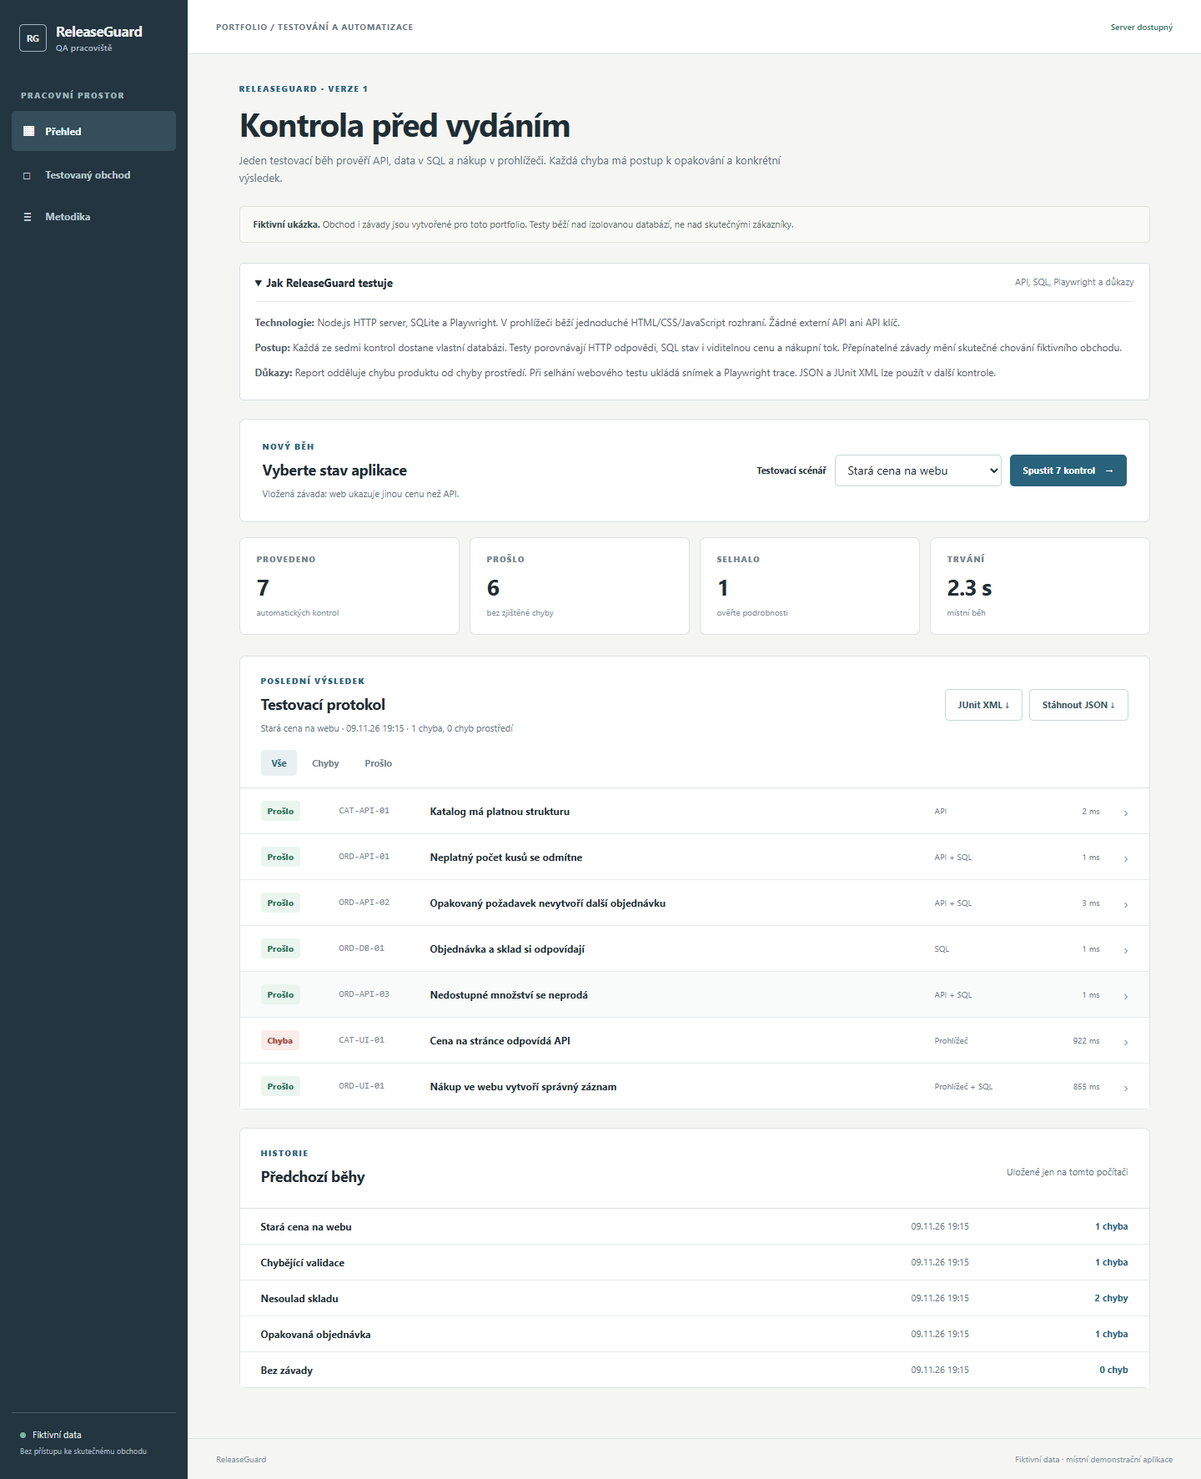
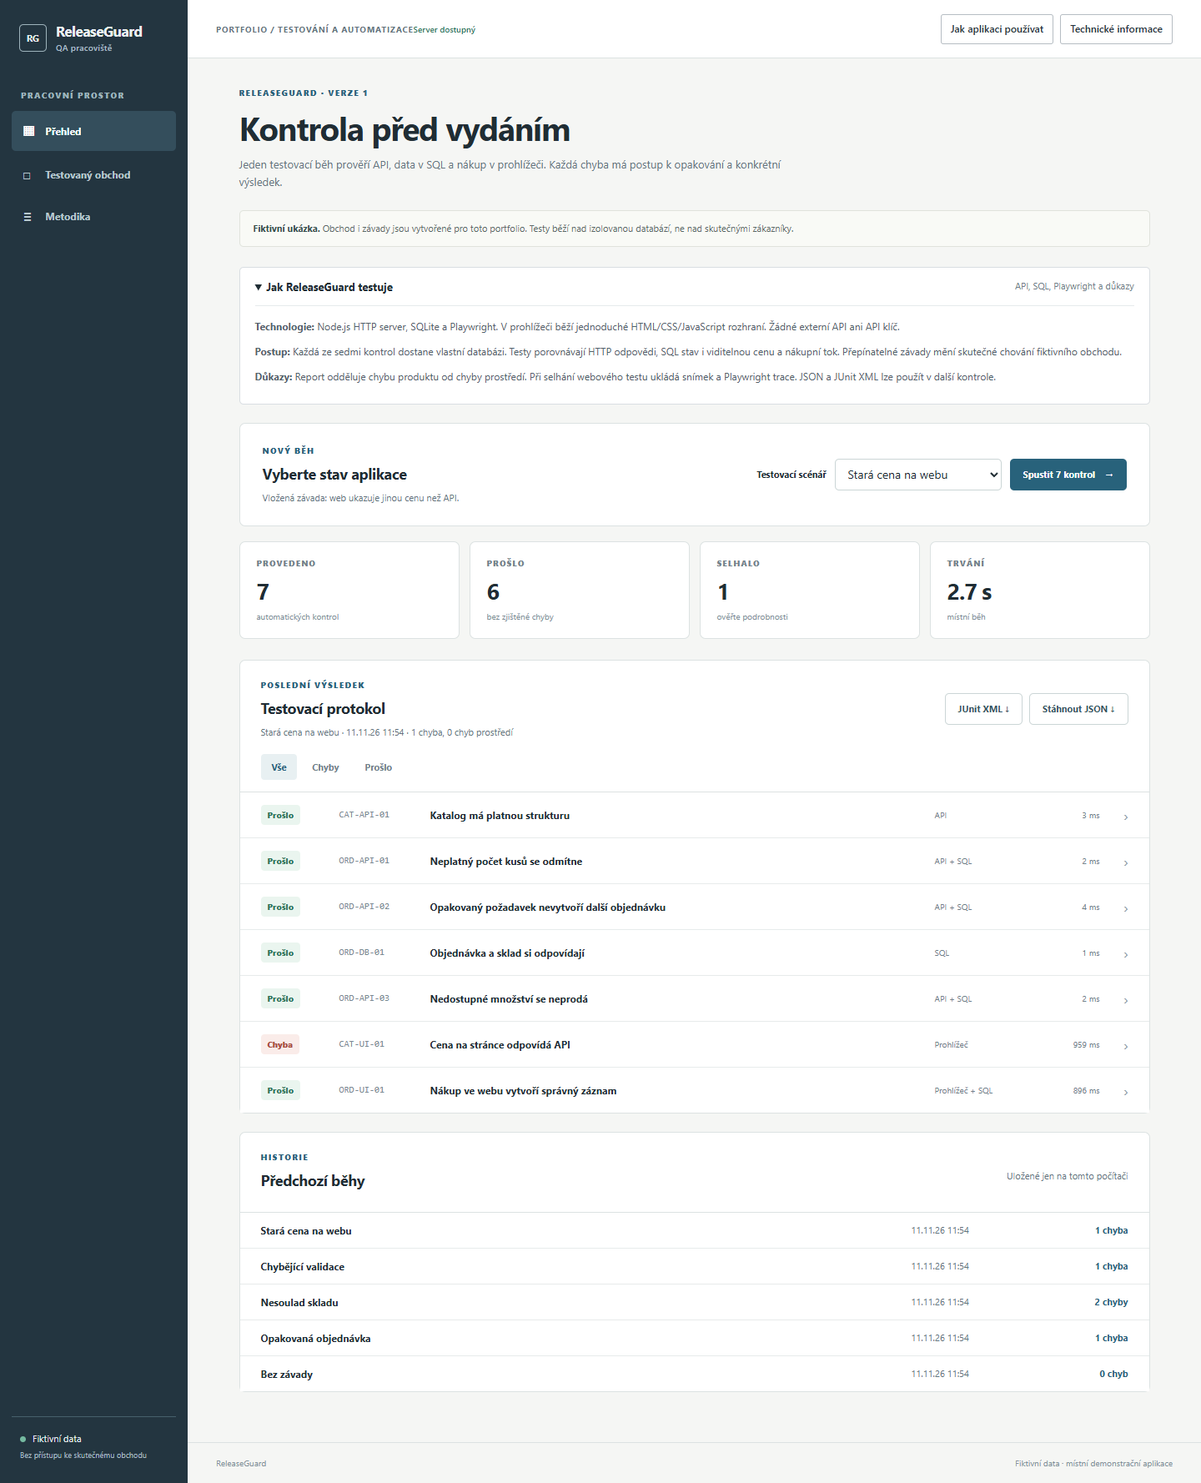
docs: explain order lifetime and guide the QA workflow

diff --git a/web/index.html b/web/index.html
@@ -6,8 +6,8 @@
   <meta name="description" content="ReleaseGuard: ukázková kontrola API, databáze a webu před vydáním aplikace.">
   <title>ReleaseGuard — kontrola před vydáním</title>
   <link rel="stylesheet" href="/style.css">
-  <script type="module" src="/app.js"></script>
-</head>
+  <script src="./guide.js" defer></script><script type="module" src="/app.js"></script>
+<link rel="stylesheet" href="./guide.css"></head>
 <body>
   <a class="skip-link" href="#main">Přeskočit na obsah</a>
   <div class="layout">
@@ -36,7 +36,7 @@
           <section class="panel" aria-labelledby="results-heading"><div class="panel-head"><div><p class="section-kicker">POSLEDNÍ VÝSLEDEK</p><h2 id="results-heading">Testovací protokol</h2><p id="report-subtitle" class="subtle">Zatím nebyl spuštěn žádný test.</p></div><div class="report-actions"><button id="download-junit" class="button secondary" type="button" disabled>JUnit XML ↓</button><button id="download-report" class="button secondary" type="button" disabled>Stáhnout JSON ↓</button></div></div><div id="result-filters" class="filters" role="group" aria-label="Filtrovat výsledky"><button type="button" data-filter="all" class="active">Vše</button><button type="button" data-filter="failed">Chyby</button><button type="button" data-filter="passed">Prošlo</button></div><div id="case-list" class="case-list"><p class="empty">Vyberte scénář a spusťte kontroly.</p></div></section>
           <section class="panel history-panel" aria-labelledby="history-heading"><div class="panel-head"><div><p class="section-kicker">HISTORIE</p><h2 id="history-heading">Předchozí běhy</h2></div><span class="subtle">Uložené jen na tomto počítači</span></div><div id="history-list" class="history-list"><p class="empty">Historie je zatím prázdná.</p></div></section>
         </section>
-        <section id="target-view" hidden><p class="eyebrow">TESTOVACÍ PROSTŘEDÍ</p><h1>Malý obchod. Skutečné kontroly.</h1><p class="lead">Tři fiktivní produkty, nákupní formulář a SQLite databáze. Závady mění konkrétní chování aplikace; testy je musí odhalit.</p><div class="info-grid"><article class="panel"><h2>Otevřít obchod</h2><p>Projděte stejný nákupní tok, který automaticky prověřuje prohlížečový test.</p><a class="button primary" href="/store" target="_blank" rel="noopener">Otevřít testovaný obchod ↗</a></article><article class="panel"><h2>Co testujeme</h2><ul><li>Schéma a stavové kódy API</li><li>Opakované požadavky a zásoby</li><li>Přesné SQL záznamy</li><li>Cenu a nákup na webu</li></ul></article></div><p class="small-note">Ruční obchod běží na vlastní fiktivní sadě. Každý automatický test má samostatnou izolovanou databázi.</p></section>
+        <section id="target-view" hidden><p class="eyebrow">TESTOVACÍ PROSTŘEDÍ</p><h1>Malý obchod. Skutečné kontroly.</h1><p class="lead">Tři fiktivní produkty, nákupní formulář a SQLite databáze. Závady mění konkrétní chování aplikace; testy je musí odhalit.</p><div class="info-grid"><article class="panel"><h2>Otevřít obchod</h2><p>Projděte stejný nákupní tok, který automaticky prověřuje prohlížečový test.</p><a class="button primary" href="/store" target="_blank" rel="noopener">Otevřít testovaný obchod ↗</a></article><article class="panel"><h2>Co testujeme</h2><ul><li>Schéma a stavové kódy API</li><li>Opakované požadavky a zásoby</li><li>Přesné SQL záznamy</li><li>Cenu a nákup na webu</li></ul></article></div><p class="small-note">Ruční obchod běží na vlastní fiktivní sadě v paměťové SQL databázi. Objednávky lze během běhu načíst podle ID přes API, ale po restartu serveru zmizí. Není zde seznam ani správa firemních objednávek. Každý automatický test má samostatnou izolovanou databázi; trvale se ukládá historie testovacích běhů.</p></section>
         <section id="method-view" hidden><p class="eyebrow">METODIKA</p><h1>Jak vzniká výsledek</h1><p class="lead">ReleaseGuard hlásí jen pozorovaný rozdíl mezi očekáváním a skutečností. Vnější závislosti, například chybějící prohlížeč, označuje samostatně jako chybu prostředí.</p><div class="method-list"><article><span>01</span><div><h2>Izolovaný vstup</h2><p>Každá kontrola dostane novou SQLite databázi se stejnými fiktivními produkty.</p></div></article><article><span>02</span><div><h2>API, SQL a prohlížeč</h2><p>Kontroly volají skutečné HTTP endpointy, čtou SQL stav a používají Playwright pro webový nákup.</p></div></article><article><span>03</span><div><h2>Reprodukovatelný nález</h2><p>Protokol ukládá očekávání, zjištěný stav a kroky. Selhání v prohlížeči přidá screenshot a trace.</p></div></article></div><div class="notice">Přepínatelné závady jsou výuková simulace. Úspěšný běh potvrzuje těchto sedm kontrol, nikoli bezchybnost libovolného e-shopu.</div></section>
       </main>
       <footer>ReleaseGuard <span>Fiktivní data · místní demonstrační aplikace</span></footer>

diff --git a/web/guide.js b/web/guide.js
@@ -1,0 +1,20 @@
+const config={"name":"ReleaseGuard","purpose":"Prověřte, zda změna aplikace neporušila API, stav databáze nebo nákupní tok.","steps":["Zvolte „Bez závady“ a spusťte sedm skutečných kontrol nad izolovanými databázemi.","Zkuste některou z připravených závad. V protokolu otevřete očekávání, skutečnost a postup k opakování; u webové chyby také screenshot a trace.","Stáhněte JSON/JUnit protokol. V Testovaném obchodu lze ručně objednat fiktivní produkt a sledovat změnu skladu."],"tech":["Node.js HTTP server, SQLite a Playwright. Skutečné HTTP požadavky, SQL ověření a práce v prohlížeči.","Každá automatická kontrola má vlastní paměťovou databázi. Ruční obchod má jinou samostatnou paměťovou databázi.","Historie testovacích běhů je uložená v místním SQLite souboru. Žádná AI ani externí API."],"limit":"Objednávka ručního obchodu skutečně vznikne v SQL, ale po restartu serveru zmizí. Je to QA pracoviště, nikoli hotová firemní evidence objednávek.","repo":"releaseguard"};
+
+(()=>{
+ const node=(tag,text,className)=>{const e=document.createElement(tag);if(text!==undefined)e.textContent=text;if(className)e.className=className;return e};
+ const key='portfolio-guide:'+config.repo+':v1';
+ const header=document.querySelector('header');if(!header)return;header.classList.add('has-guide');
+ const links=node('div',undefined,'guide-links');links.setAttribute('role','group');links.setAttribute('aria-label','Nápověda aplikace');
+ const usage=node('button','Jak aplikaci používat'),technical=node('button','Technické informace');usage.type=technical.type='button';usage.id='guide-use';technical.id='guide-tech';links.append(usage,technical);header.append(links);
+ const dialog=node('dialog',undefined,'guide-dialog');dialog.id='guide-dialog';dialog.setAttribute('aria-labelledby','guide-title');
+ const head=node('div',undefined,'guide-head'),title=node('h2');title.id='guide-title';const close=node('button','×','guide-close');close.type='button';close.setAttribute('aria-label','Zavřít nápovědu');close.id='guide-close';head.append(title,close);
+ const tabs=node('div',undefined,'guide-tabs'),useTab=node('button','Používání'),techTab=node('button','Technické řešení');useTab.type=techTab.type='button';tabs.append(useTab,techTab);
+ const body=node('div',undefined,'guide-content'),foot=node('div',undefined,'guide-foot'),github=node('a','Úplný popis na GitHubu ↗'),start=node('button','Začít používat','guide-start');github.href='https://github.com/OmegaCatt/'+config.repo+'#readme';github.target='_blank';github.rel='noopener noreferrer';start.id='guide-start';start.type='button';foot.append(github,start);dialog.append(head,tabs,body,foot);document.body.append(dialog);
+ let opener=null;
+ function render(kind){const isUse=kind==='use';title.textContent=(isUse?'Jak používat ':'Technické informace · ')+config.name;useTab.setAttribute('aria-pressed',String(isUse));techTab.setAttribute('aria-pressed',String(!isUse));body.replaceChildren();if(isUse){body.append(node('p',config.purpose,'guide-purpose'));const list=node('ol');for(const text of config.steps)list.append(node('li',text));body.append(list)}else{for(const text of config.tech)body.append(node('p',text))}body.append(node('p',config.limit,'guide-limit'));dialog.scrollTop=0;}
+ function open(kind,trigger){opener=trigger||document.activeElement;render(kind);if(!dialog.open)dialog.showModal();start.focus({preventScroll:true})}
+ usage.onclick=()=>open('use',usage);technical.onclick=()=>open('tech',technical);useTab.onclick=()=>render('use');techTab.onclick=()=>render('tech');close.onclick=start.onclick=()=>dialog.close();
+ dialog.addEventListener('close',()=>{try{localStorage.setItem(key,'seen')}catch{}if(opener?.isConnected&&!document.querySelector('dialog[open]'))opener.focus({preventScroll:true})});
+ dialog.addEventListener('keydown',event=>{if(event.key!=='Tab')return;const items=[...dialog.querySelectorAll('button:not(:disabled),a[href]')].filter(e=>e.getClientRects().length);const first=items[0],last=items.at(-1);if(event.shiftKey&&document.activeElement===first){event.preventDefault();last.focus()}else if(!event.shiftKey&&document.activeElement===last){event.preventDefault();first.focus()}});
+ let seen=false;try{seen=localStorage.getItem(key)==='seen'}catch{}if(!seen)open('use');
+})();

diff --git a/web/store.html b/web/store.html
@@ -1,5 +1,5 @@
 <!doctype html>
 <html lang="cs">
 <head><meta charset="utf-8"><meta name="viewport" content="width=device-width, initial-scale=1"><title>Ukázkový obchod — ReleaseGuard</title><link rel="stylesheet" href="/style.css"><script type="module" src="/store.js"></script></head>
-<body class="store-page"><header class="store-top"><a href="/">← ReleaseGuard</a><strong>Ukázkový obchod</strong><span>Fiktivní provoz</span></header><main class="store-shell"><p class="eyebrow">TESTOVANÁ APLIKACE</p><h1>Výbava pro pracovní stůl</h1><p class="lead">Malý demonstrační obchod pro ověřování API, cen a objednávek. Žádná skutečná platba ani odeslání.</p><section id="product-list" class="product-grid" aria-label="Produkty"></section><section class="checkout-panel" aria-labelledby="checkout-heading"><div><p class="section-kicker">POKUSNÁ OBJEDNÁVKA</p><h2 id="checkout-heading">Vyzkoušet nákup</h2><p>Objednávka se uloží jen do místní testovací databáze.</p></div><form id="order-form"><label for="product">Produkt</label><select id="product" required></select><label for="quantity">Počet kusů</label><input id="quantity" type="number" min="1" max="10" value="1" required><label for="email">Fiktivní e-mail</label><input id="email" type="email" placeholder="demo@example.test" required><p id="order-error" class="form-error" role="alert"></p><button id="order-button" class="button primary" type="submit">Vytvořit testovací objednávku</button></form></section><div id="confirmation" class="confirmation" role="status" hidden></div></main><footer>ReleaseGuard · testovaný fiktivní obchod</footer></body>
+<body class="store-page"><header class="store-top"><a href="/">← ReleaseGuard</a><strong>Ukázkový obchod</strong><span>Fiktivní provoz</span></header><main class="store-shell"><p class="eyebrow">TESTOVANÁ APLIKACE</p><h1>Výbava pro pracovní stůl</h1><p class="lead">Malý demonstrační obchod pro ověřování API, cen a objednávek. Žádná skutečná platba ani odeslání.</p><section id="product-list" class="product-grid" aria-label="Produkty"></section><section class="checkout-panel" aria-labelledby="checkout-heading"><div><p class="section-kicker">POKUSNÁ OBJEDNÁVKA</p><h2 id="checkout-heading">Vyzkoušet nákup</h2><p>Objednávka se skutečně uloží do paměťové SQL databáze. Po restartu serveru zmizí; tato ukázka není trvalou evidencí objednávek.</p></div><form id="order-form"><label for="product">Produkt</label><select id="product" required></select><label for="quantity">Počet kusů</label><input id="quantity" type="number" min="1" max="10" value="1" required><label for="email">Fiktivní e-mail</label><input id="email" type="email" placeholder="demo@example.test" required><p id="order-error" class="form-error" role="alert"></p><button id="order-button" class="button primary" type="submit">Vytvořit testovací objednávku</button></form></section><div id="confirmation" class="confirmation" role="status" hidden></div></main><footer>ReleaseGuard · testovaný fiktivní obchod</footer></body>
 </html>

diff --git a/web/guide.css b/web/guide.css
@@ -1,0 +1,24 @@
+
+.has-guide{height:auto!important;min-height:70px;flex-wrap:wrap;row-gap:12px;padding-top:14px!important;padding-bottom:14px!important}
+.guide-links{display:flex;flex-wrap:wrap;gap:8px;margin-left:auto;align-items:center;flex-shrink:0}
+.guide-links button{font:600 12px/1.35 system-ui,sans-serif!important;letter-spacing:0!important;display:inline-flex;align-items:center;justify-content:center;min-height:36px;width:auto;max-width:100%;padding:8px 11px!important;border:1px solid #b6bdc3!important;border-radius:3px!important;background:#fff!important;color:#283440!important;box-shadow:none!important;transform:none!important;transition:none!important;cursor:pointer}
+#guide-dialog{box-sizing:border-box;width:min(700px,calc(100vw - 28px));max-width:calc(100vw - 28px);max-height:calc(100dvh - 32px);margin:auto;padding:26px;border:1px solid #969fa7;border-radius:5px;background:#fff;color:#27323b;box-shadow:none;font:15px/1.6 system-ui,sans-serif;overflow:auto;letter-spacing:normal}
+#guide-dialog::backdrop{background:#18232c99;backdrop-filter:none}
+#guide-dialog *{box-sizing:border-box}
+#guide-dialog .guide-head{display:flex;justify-content:space-between;gap:16px;align-items:start}
+#guide-dialog h2{font:700 23px/1.25 system-ui,sans-serif;letter-spacing:-.3px;margin:0;color:#27323b}
+#guide-dialog button{font:600 13px/1.4 system-ui,sans-serif;letter-spacing:normal;transition:none;transform:none;box-shadow:none;cursor:pointer;min-height:38px;border:1px solid #a7b1b8;border-radius:3px;padding:8px 12px;background:#fff;color:#283440;width:auto;margin:0}
+#guide-dialog .guide-close{font-size:23px;padding:0 10px;flex:none}
+#guide-dialog .guide-tabs{display:flex;gap:8px;flex-wrap:wrap;border-bottom:1px solid #d8dde1;padding:18px 0 14px}
+#guide-dialog .guide-tabs [aria-pressed=true]{background:#eaf0f3;border-color:#647581}
+#guide-dialog .guide-content{padding-top:6px;overflow-wrap:anywhere}
+#guide-dialog p{font:inherit;margin:14px 0;color:inherit}
+#guide-dialog .guide-purpose{font-weight:550}
+#guide-dialog ol{padding-left:23px;margin:16px 0}
+#guide-dialog li{padding-left:5px;margin:12px 0}
+#guide-dialog .guide-limit{font-size:13px;border-left:3px solid #9ba9b2;padding:8px 12px;background:#f3f5f6;color:#46535e}
+#guide-dialog .guide-foot{display:flex;align-items:center;justify-content:space-between;gap:14px;border-top:1px solid #d8dde1;padding-top:18px;margin-top:20px;flex-wrap:wrap}
+#guide-dialog a{font-size:13px;color:#244a67;text-decoration:underline}
+#guide-dialog .guide-start{background:#2c414f;color:white;border-color:#2c414f}
+#guide-dialog :focus-visible,.guide-links button:focus-visible{outline:3px solid #bf810c!important;outline-offset:3px}
+@media(max-width:800px){.has-guide .guide-links{margin-left:0;width:100%}.guide-links button{flex:1 1 auto}#guide-dialog{padding:18px;font-size:14px}#guide-dialog h2{font-size:20px}#guide-dialog .guide-foot{align-items:stretch;flex-direction:column}#guide-dialog .guide-start{width:100%}}

diff --git a/README.md b/README.md
@@ -1,5 +1,12 @@
 # ReleaseGuard
 
+## Orientace v aplikaci (11. 11. 2026)
+
+Při první návštěvě se otevře stručný návod. Po zavření si aplikace v tomto prohlížeči zapamatuje potvrzení; změna nemá vliv na obchodní data. V hlavičce lze kdykoli otevřít **Jak aplikaci používat** a **Technické informace**. Oba obsahy odkazují na úplný README zde na GitHubu. Pokud úložiště prohlížeče není dostupné, návod lze zavřít a aplikace dál funguje.
+
+Objednávky testovaného obchodu skutečně vznikají přes HTTP v paměťové SQLite databázi, mění sklad a dají se během běhu načíst přes GET /api/store/orders/:id. Po restartu serveru zmizí. Seznam, editace, expedice a trvalá evidence firemních objednávek nejsou implementované. Na disk se ukládá historie testovacích běhů a jejich protokoly, nikoli objednávky obchodu.
+
+
 ## Aktualizace 9. 11. 2026: CI a úplná matice závad
 
 GitHub Actions už spouští jednotkové i prohlížečové kontroly. Prohlížečové QA nyní ověřuje všechny čtyři vložené závady a zdravý stav; výsledek musí odpovídat očekávanému počtu selhání. CI uchovává důkazy včetně JUnit a historie po sedm dnů. Stejný idempotency key s jiným obsahem objednávky vrací 409 bez druhého zápisu. Kód `a57fa90` prošel [GitHub Actions](https://github.com/OmegaCatt/releaseguard/actions/runs/42673166802) při druhém pokusu po výpadku infrastruktury. Artefakt QA byl nahrán.
@@ -69,7 +76,10 @@ Výsledky pocházejí ze skutečných místních běhů, nikoli z připravených
 
 Server naslouchá jen na `127.0.0.1`, kontroluje `Host` a `Origin`, omezuje velikost JSON a nepřijímá libovolné URL ani cizí soubory k testování. **Není určen k veřejnému nasazení ani ke skutečným zákaznickým datům.** Nemá účty, správu práv ani produkční ochranu proti opakovanému spouštění. Chyba prohlížečového prostředí se ve výsledku označí samostatně, aby nevypadala jako chyba produktu. Úspěch sedmi kontrol neprokazuje úplnou bezchybnost obchodu.
 
-## English summary
+## English
+
+First-time visitors see a keyboard-accessible guide; persistent header buttons reopen usage and technical information with a link to this README. Acknowledgement is browser-local and does not store business records. Manual checkout creates actual in-memory SQLite orders, updates stock and supports lookup by ID during runtime. Orders disappear on server restart. Durable order management, order listing/editing and fulfillment are not implemented; test-run history is persisted separately.
+ summary
 
 ReleaseGuard is a local QA portfolio project that tests a fictional shop rather than displaying prewritten results. Seven checks cover HTTP API contracts, input validation, idempotent order creation, SQLite inventory consistency, stock limits, visible prices, and a browser checkout. Four injected faults demonstrate that the suite detects real differences. Failed browser checks retain a screenshot and Playwright trace; findings include expected and observed results, reproduction steps, JSON and JUnit XML exports, and a Markdown bug report. An expandable note explains the test architecture. Tests use isolated SQLite databases, so runs are repeatable. Node.js 24+, Playwright, and a local browser are required. The server is loopback-only and must not be exposed as a production service.
 

diff --git a/docs/QA.md b/docs/QA.md
@@ -1,3 +1,13 @@
+# UX-1 až UX-7 – 11. 11. 2026
+
+Nová skutečná HTTP regrese vytvořila objednávku za 258 000 haléřů, načetla ji podle ID, ověřila sklad 6, zavřela server a znovu jej spustila se stejným souborem historie: objednávka již neexistovala a sklad se obnovil na 8. Browser samostatně prošel nákupní formulář.
+
+Místně ověřené unit testy: **10 Node**.
+
+Objednávky testovaného obchodu skutečně vznikají přes HTTP v paměťové SQLite databázi, mění sklad a dají se během běhu načíst přes GET /api/store/orders/:id. Po restartu serveru zmizí. Seznam, editace, expedice a trvalá evidence firemních objednávek nejsou implementované. Na disk se ukládá historie testovacích běhů a jejich protokoly, nikoli objednávky obchodu.
+
+Všech sedm aplikací má první přístupný dialog a stálé ovládání nápovědy v hlavičce. Playwright ověřuje skutečný první vstup, obě části, GitHub odkaz, Tab/Shift+Tab, Escape, návrat fokusu, potvrzení po reloadu a mobil. CompanyAtlas čeká s přihlášením na zavření úvodu; hlavička se testuje po přihlášení. Legacy pracovní průchody pokračují po skutečném zavření úvodu. Aktuální commit, CI a přesný rozsah ověření této etapy jsou vedené v hlavním Portfolio_PROGRESS.md; starší zápisy níže jsou historické.
+
 # Opakované ověření 10. 11. 2026
 
 **9 Node testů prošlo.** Znovu spuštěné prohlížečové QA ověřilo skutečný pracovní postup na dočasných fiktivních podkladech, desktop i mobil a JavaScript chyby. Nová kontrola zopakovala běžné i připravené chybové toky. Původní počet testů zůstává beze změny.

diff --git a/docs/PROJECT.md b/docs/PROJECT.md
@@ -1,3 +1,9 @@
+# UX-1 až UX-7 – 11. 11. 2026
+
+Objednávky testovaného obchodu skutečně vznikají přes HTTP v paměťové SQLite databázi, mění sklad a dají se během běhu načíst přes GET /api/store/orders/:id. Po restartu serveru zmizí. Seznam, editace, expedice a trvalá evidence firemních objednávek nejsou implementované. Na disk se ukládá historie testovacích běhů a jejich protokoly, nikoli objednávky obchodu.
+
+Všech sedm aplikací má první přístupný dialog a stálé ovládání nápovědy v hlavičce. Playwright ověřuje skutečný první vstup, obě části, GitHub odkaz, Tab/Shift+Tab, Escape, návrat fokusu, potvrzení po reloadu a mobil. CompanyAtlas čeká s přihlášením na zavření úvodu; hlavička se testuje po přihlášení. Legacy pracovní průchody pokračují po skutečném zavření úvodu. Aktuální commit, CI a přesný rozsah ověření této etapy jsou vedené v hlavním Portfolio_PROGRESS.md; starší zápisy níže jsou historické.
+
 # Aktuální rozsah a kontrola 10. 11. 2026
 
 Aktuální funkce, technologie, API, způsob použití, firemní zavedení a omezení jsou v [README](../README.md). Znovu prošlo 9 Node testů a odpovídající skutečný browser průchod desktop/mobil. Jde o fiktivní portfolio projekt. Výsledky a případné opravy jsou v [QA](QA.md).
